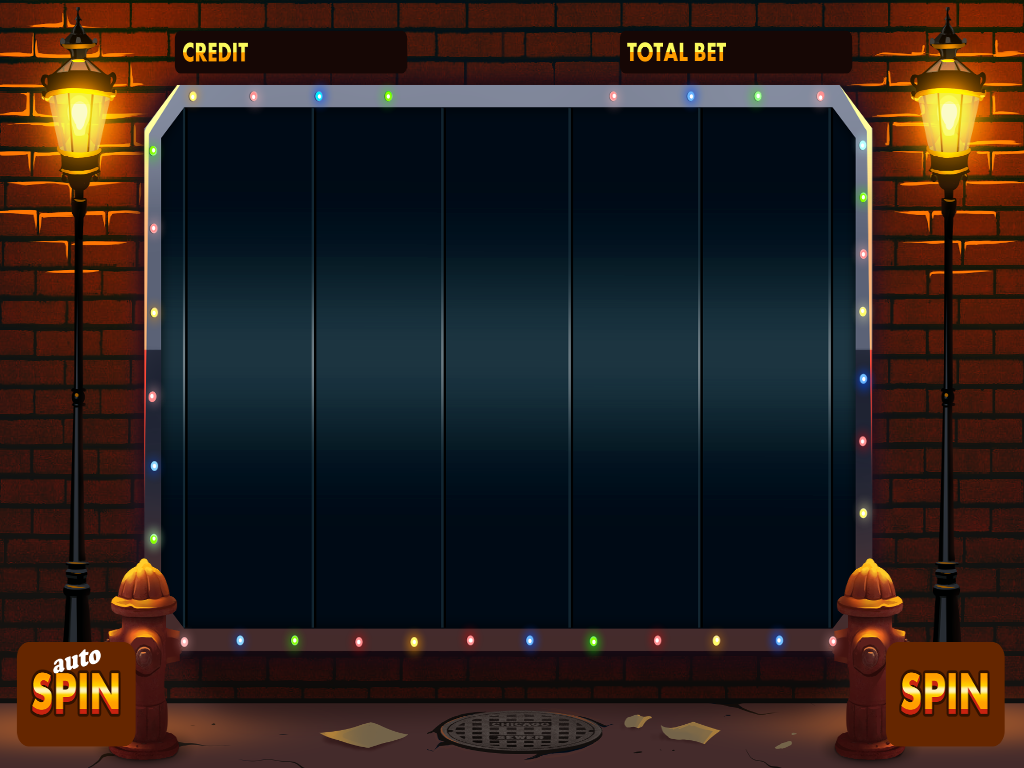
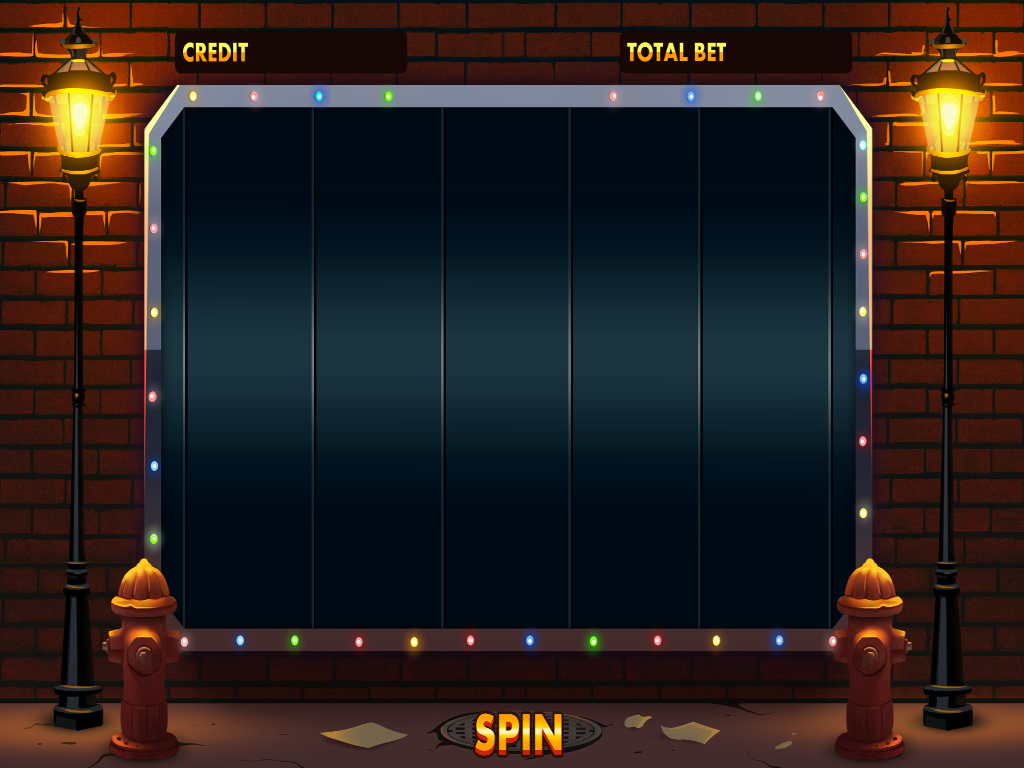
change spin btn

Changed region(s): [[0.8438, 0.8125, 1.0, 0.9688], [0.0, 0.8125, 0.1562, 0.9688], [0.4375, 0.9062, 0.5625, 1.0]]

diff --git a/src/screens/screenGame.c b/src/screens/screenGame.c
@@ -102,8 +102,8 @@ void check_win(Game * game) {
                 if (game->winings[i][j] > 0) {
                     if (win < multipliers[game->reels[i][j]]) {
                         win = multipliers[game->reels[i][j]];
-                        cards++;
                     }
+                    cards++;
                 }
             }
         }
@@ -254,7 +254,7 @@ void game_draw(Game * game) {
         }
 
     if (game->spining) {
-        DrawTexture(Images[GFX_SPIN], 897, 670, WHITE);
+        DrawTexture(Images[GFX_SPIN], 468, 705, WHITE);
     }
 
     if (game->showLines) {

diff --git a/src/game.c b/src/game.c
@@ -153,7 +153,7 @@ void spin (Game * game) {
    //  printReel(game->reels);
 }
 
-void printReel(int reel[REEL_ROW][REEL_COLUMN]) {
+void printReel(int reel[REEL_ROW][REEL_COLUMN]) {     
       for (int i = 0; i < 3; i++) {
         for (int j = 0; j < 5; j++) {
             printf("%d\t", reel[i][j]);
